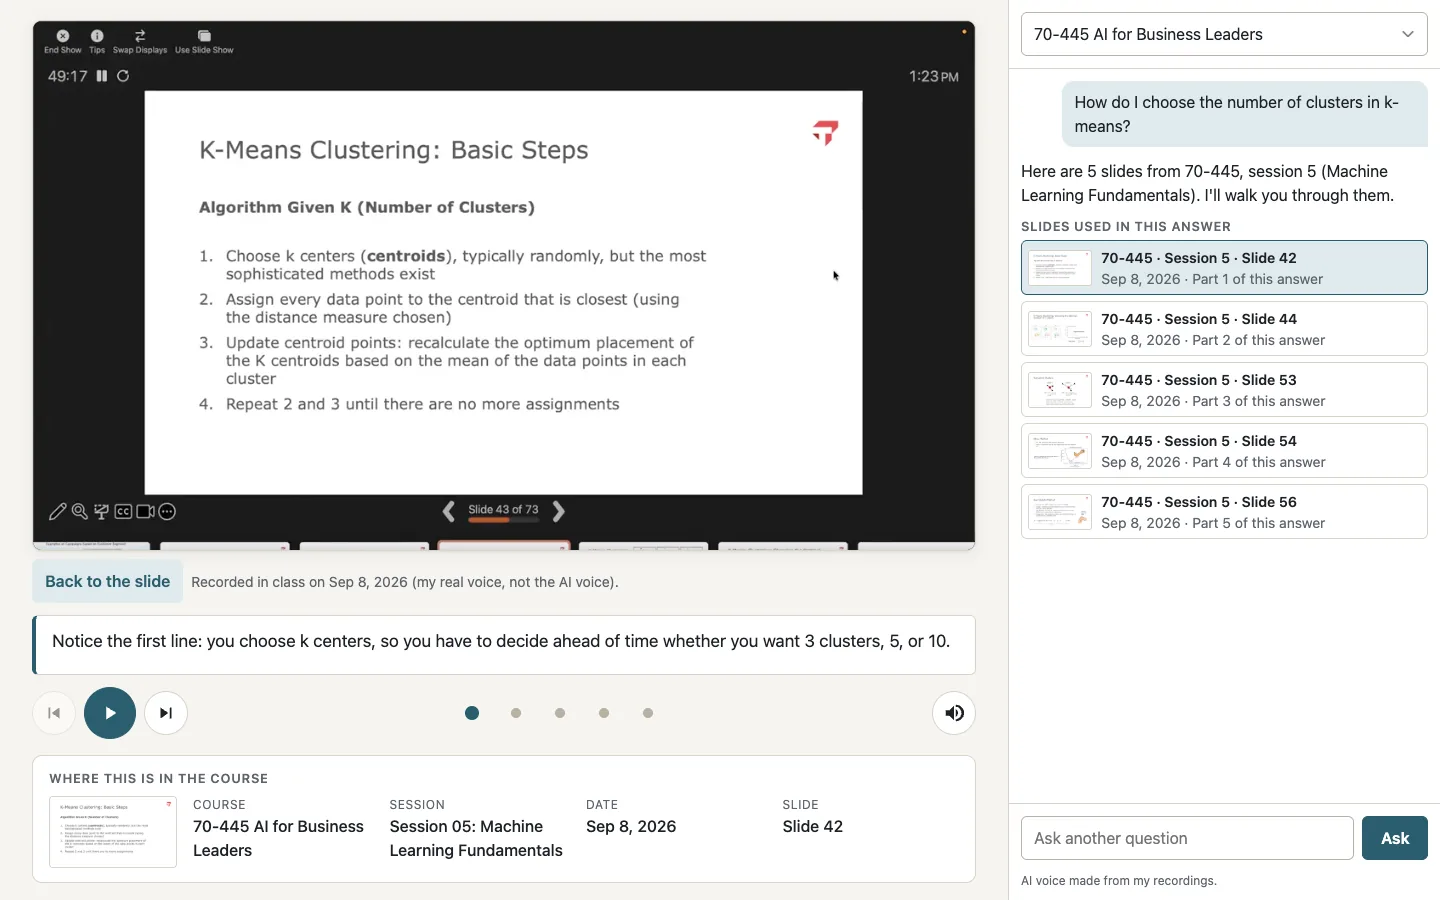
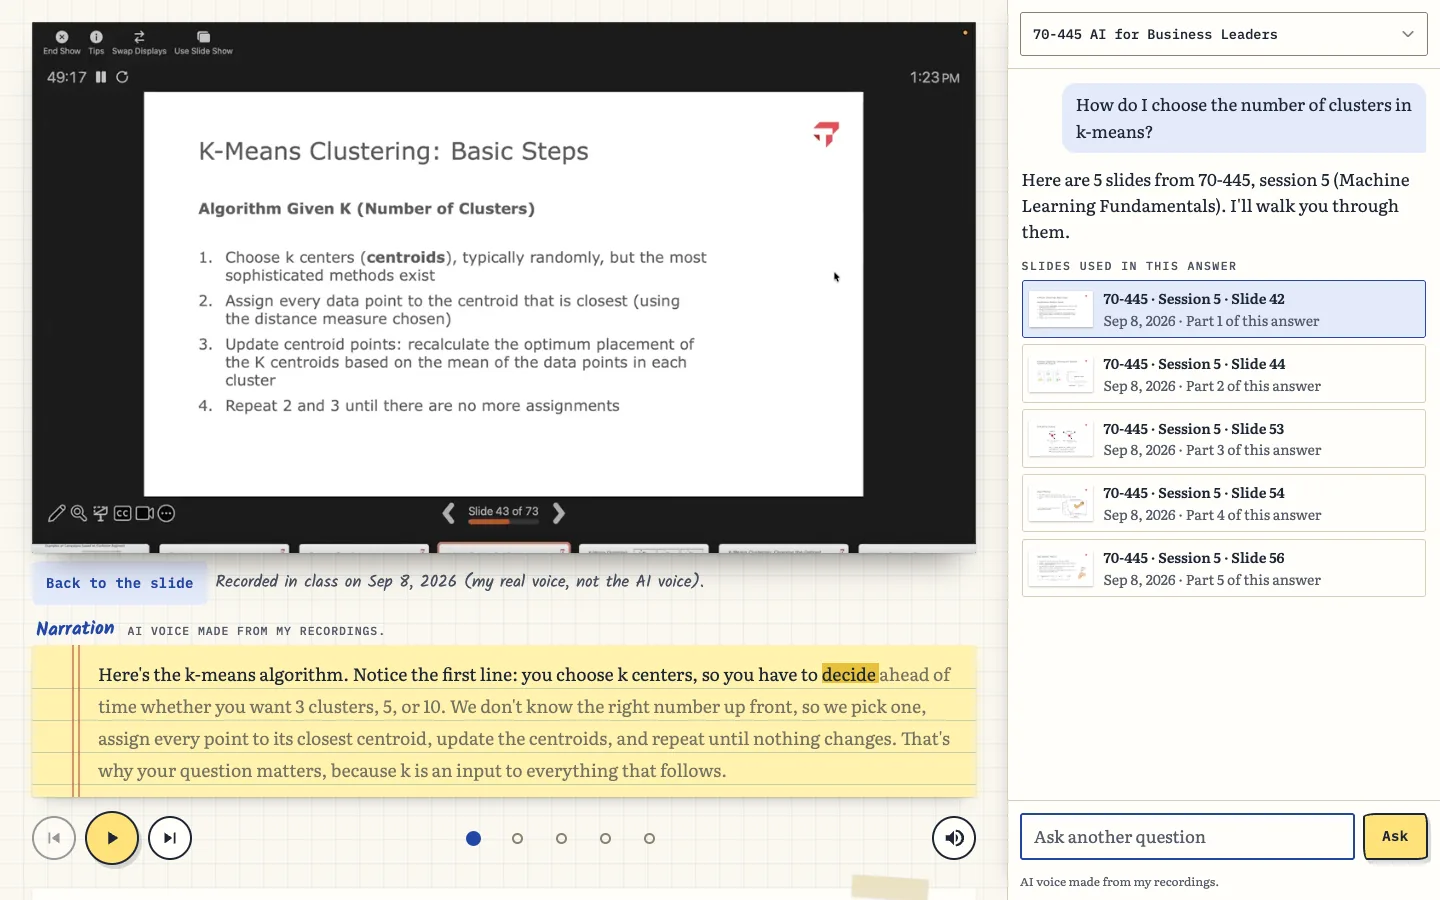
Faculty Twin images: retake in the collier.phd look (#2)
The walkthrough, class clip and phone images are replaced with the new live-site
shots from faculty-twin docs/screenshots (same sizes: 1440 x 900, 1440 x 900,
780 x 1688). The walkthrough's alt text now names the read-along narration box
and the sources list, which is what the new shot shows.

Claude-Session: https://claude.ai/code/session_01HVmjg8TUBHLmg3PzPAQ4yn

diff --git a/README.md b/README.md
@@ -57,7 +57,7 @@ An AI version of me that teaches from my own slides. A student asks a course que
 
 | A walkthrough | The class clip | On a phone |
 | --- | --- | --- |
-| <img src="images/faculty-twin-walkthrough.webp" alt="A Faculty Twin walkthrough: the slide, the narration caption, the controls and the source card" width="300"> | <img src="images/faculty-twin-class-clip.webp" alt="The class recording of the same slide playing in place of the slide, labeled as my real voice" width="300"> | <img src="images/faculty-twin-phone.webp" alt="A walkthrough on a phone" width="150"> |
+| <img src="images/faculty-twin-walkthrough.webp" alt="A Faculty Twin walkthrough: the slide, the read-along narration box, the controls and the sources list" width="300"> | <img src="images/faculty-twin-class-clip.webp" alt="The class recording of the same slide playing in place of the slide, labeled as my real voice" width="300"> | <img src="images/faculty-twin-phone.webp" alt="A walkthrough on a phone" width="150"> |
 
 *Screenshots of the live site, October 8, 2026. More, with notes on each: [faculty-twin/docs/screenshots](https://github.com/bcollier/faculty-twin/blob/main/docs/screenshots/README.md).*
 
